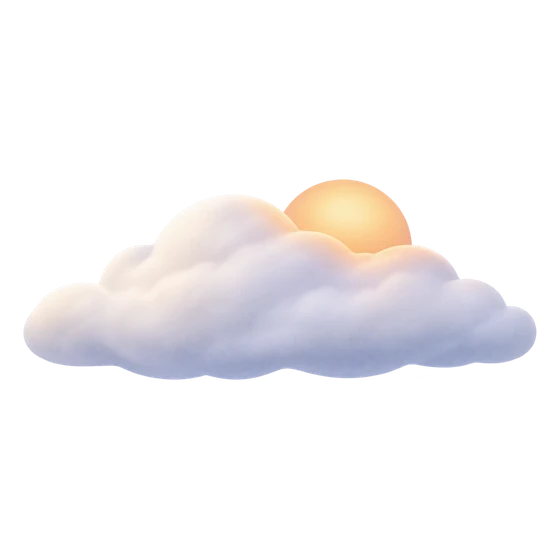
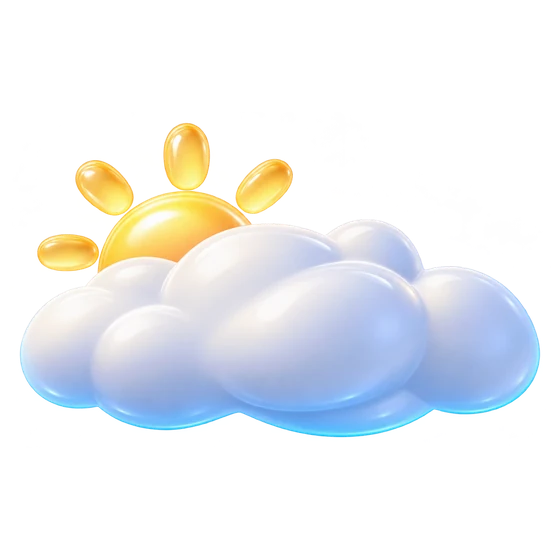
Expand matching weather illustrations for night and dusk

Changed region(s): [[0.0304, 0.2125, 0.9714, 0.7893]]

diff --git a/src/lib/environment-presentation.ts b/src/lib/environment-presentation.ts
@@ -9,12 +9,17 @@ export type { SensorRule } from "../types/live.types";
 export type Scene =
   | "sunny"
   | "sunny-morning"
+  | "sunny-dusk"
   | "sunny-night"
   | "partly-cloudy"
   | "cloudy"
+  | "cloudy-night"
   | "fog"
+  | "fog-night"
   | "steady-rain"
+  | "rain-night"
   | "storm"
+  | "storm-night"
   | "air"
   | "air-moderate"
   | "haze"
@@ -58,25 +63,25 @@ export function conditionScene(
     const weather = currentFacts(facts, now).find(
       (f) => f.category === "weather" && /WMO|weather.?code/i.test(f.label),
     );
+    const timestamp = Date.parse(weather?.valid_at || insight.valid_at || "");
+    const hour = Number.isFinite(timestamp) ? Number(weatherHour.format(timestamp)) : NaN;
+    const night = hour < 5 || hour >= 18;
     const code = weather?.value;
     if (typeof code === "number") {
       if ([0, 1, 2].includes(code)) {
-        const timestamp = Date.parse(weather?.valid_at ?? "");
-        if (Number.isFinite(timestamp)) {
-          const hour = Number(weatherHour.format(timestamp));
-          if (hour < 5 || hour >= 18) return "sunny-night";
-          if (hour < 11) return "sunny-morning";
-        }
+        if (night) return "sunny-night";
+        if (hour < 11) return "sunny-morning";
+        if (hour >= 17) return "sunny-dusk";
         return code === 0 ? "sunny" : "partly-cloudy";
       }
-      if (code === 3) return "cloudy";
-      if ([45, 48].includes(code)) return "fog";
-      if ([95, 96, 97, 99].includes(code)) return "storm";
+      if (code === 3) return night ? "cloudy-night" : "cloudy";
+      if ([45, 48].includes(code)) return night ? "fog-night" : "fog";
+      if ([95, 96, 97, 99].includes(code)) return night ? "storm-night" : "storm";
       if ([51, 53, 55, 56, 57, 61, 63, 65, 66, 67, 80, 81, 82].includes(code))
-        return "steady-rain";
+        return night ? "rain-night" : "steady-rain";
     }
-    if (/hujan/i.test(insight.title)) return "steady-rain";
-    return "cloudy";
+    if (/hujan/i.test(insight.title)) return night ? "rain-night" : "steady-rain";
+    return night ? "cloudy-night" : "cloudy";
   }
   if (insight.category === "air_quality") {
     if (insight.available && insight.tone === "notice") return "air-moderate";

diff --git a/src/styles/insights.css b/src/styles/insights.css
@@ -554,7 +554,7 @@
   --panel-cobalt: #52647e;
   --panel-deep: #20324b;
 }
-.panel-storm {
+:is(.panel-storm, .panel-storm-night) {
   --panel-cobalt: #365781;
 }
 .insight-message,
@@ -738,13 +738,13 @@
   width: 3px;
   height: 3px;
 }
-.scene-steady-rain img {
+:is(.scene-steady-rain, .scene-rain-night) img {
   animation: rain-hover 4s ease-in-out infinite;
 }
-.scene-storm img {
+:is(.scene-storm, .scene-storm-night) img {
   animation: storm-hover 6s ease-in-out infinite;
 }
-:is(.scene-air, .scene-air-moderate, .scene-haze, .scene-fog) img {
+:is(.scene-air, .scene-air-moderate, .scene-haze, .scene-fog, .scene-fog-night) img {
   animation: air-hover 8s ease-in-out infinite;
 }
 .scene-soil img {
